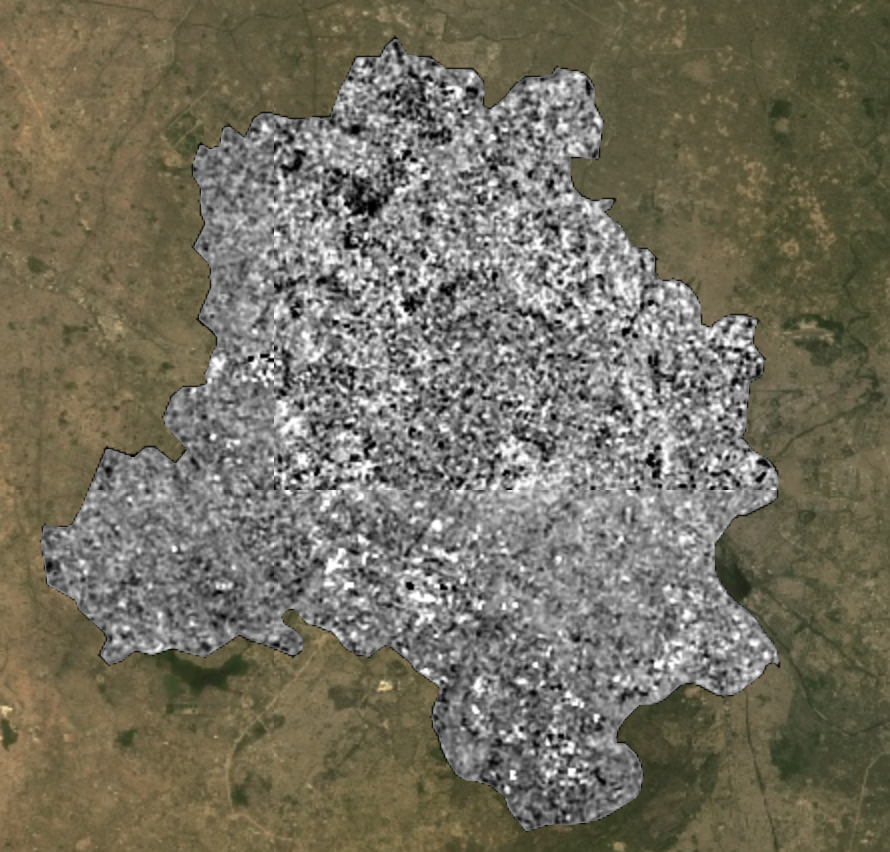
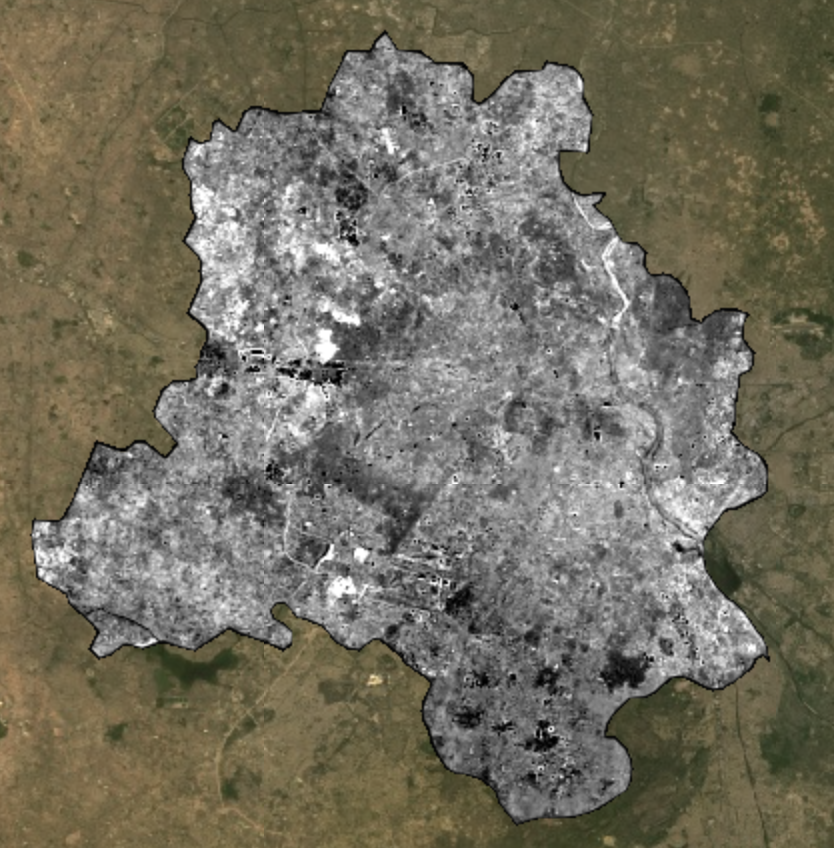
add week6

diff --git a/docs/Week_6.html b/docs/Week_6.html
@@ -138,7 +138,7 @@ ul.task-list li input[type="checkbox"] {
         <li class="sidebar-item">
   <div class="sidebar-item-container"> 
   <a href="./Week_7.html" class="sidebar-item-text sidebar-link">
- <span class="menu-text"><span class="chapter-number">6</span>&nbsp; <span class="chapter-title">Week_7 Classification</span></span></a>
+ <span class="menu-text"><span class="chapter-number">6</span>&nbsp; <span class="chapter-title">Week_7 Classification 1</span></span></a>
   </div>
 </li>
         <li class="sidebar-item">
@@ -175,8 +175,14 @@ ul.task-list li input[type="checkbox"] {
     <h2 id="toc-title">Table of contents</h2>
    
   <ul>
-  <li><a href="#notebook" id="toc-notebook" class="nav-link active" data-scroll-target="#notebook"><span class="header-section-number">5.1</span> Notebook</a></li>
-  <li><a href="#further-study" id="toc-further-study" class="nav-link" data-scroll-target="#further-study"><span class="header-section-number">5.2</span> Further Study</a></li>
+  <li><a href="#notebook" id="toc-notebook" class="nav-link active" data-scroll-target="#notebook"><span class="header-section-number">5.1</span> Notebook</a>
+  <ul class="collapse">
+  <li><a href="#pca" id="toc-pca" class="nav-link" data-scroll-target="#pca"><span class="header-section-number">5.1.1</span> PCA</a></li>
+  </ul></li>
+  <li><a href="#pracrical" id="toc-pracrical" class="nav-link" data-scroll-target="#pracrical"><span class="header-section-number">5.2</span> Pracrical</a></li>
+  <li><a href="#application" id="toc-application" class="nav-link" data-scroll-target="#application"><span class="header-section-number">5.3</span> Application</a></li>
+  <li><a href="#reflection" id="toc-reflection" class="nav-link" data-scroll-target="#reflection"><span class="header-section-number">5.4</span> Reflection</a></li>
+  <li><a href="#reference" id="toc-reference" class="nav-link" data-scroll-target="#reference"><span class="header-section-number">5.5</span> Reference</a></li>
   </ul>
 </nav>
     </div>
@@ -202,18 +208,87 @@ ul.task-list li input[type="checkbox"] {
 
 <section id="notebook" class="level2" data-number="5.1">
 <h2 data-number="5.1" class="anchored" data-anchor-id="notebook"><span class="header-section-number">5.1</span> Notebook</h2>
+<p>This week we begin to learn Google Earth Engine (GEE), a cutting-edge cloud-based platform for planetary-scale environmental data analysis. Comparing to SNAP and QGIS, GEE is really efficieny and helpful cause it doesn’t need download and process images, which is really annoying. ### Introduction Google Earth Engine (GEE) is a cutting-edge cloud-based platform for planetary-scale environmental data analysis. By offering an extensive archive of satellite imagery and geospatial datasets, coupled with powerful computing resources, GEE enables scientists, researchers, and developers to conduct analyses at unprecedented scales.</p>
+<p><strong>GEE Guidance</strong></p>
+<div class="quarto-video ratio ratio-16x9"><iframe data-external="1" src="https://www.youtube.com/embed/XHH5MBvnSkg" title="" frameborder="0" allow="accelerometer; autoplay; clipboard-write; encrypted-media; gyroscope; picture-in-picture" allowfullscreen=""></iframe></div>
+<section id="pca" class="level3" data-number="5.1.1">
+<h3 data-number="5.1.1" class="anchored" data-anchor-id="pca"><span class="header-section-number">5.1.1</span> PCA</h3>
 <p><strong>PCA is a statistical method used to reduce the dimensionality of the data while retaining the most variability.</strong></p>
 <ol type="1">
 <li><p>PCA in GEE: PCA is usually performed in GEE to reduce the dimensionality of remote sensing data and to highlight key information about land cover, change detection, or other environmental features.</p></li>
 <li><p>PCA in R: Compared with GEE, the data processing capability of R is limited by local computing resources. While R can handle big data, dealing with particularly large data sets may require optimizing code or using specific packages such as bigmemory or ff to manage memory usage.</p></li>
-<li><p>Although PCA in GEE and R are used for data reduction and feature extraction, GEE is more suitable for processing large-scale remote sensing image data and geospatial analysis, while R provides more flexible data processing and statistical analysis tools, which are suitable for various types of data.</p></li>
 </ol>
-<div style="display: flex; justify-content: space-around; align-items: center;">
-<p><img src="https://github.com/jianghan0v0/Learning-diary-han-jiang/raw/main/images/Picture%201.jpg" width="29%"> <img src="https://github.com/jianghan0v0/Learning-diary-han-jiang/raw/main/images/Picture%202.jpg" width="30%"> <img src="https://github.com/jianghan0v0/Learning-diary-han-jiang/raw/main/images/Picture%203.jpg" width="29%"></p>
+<p>Although PCA in GEE and R are used for data reduction and feature extraction, GEE is more suitable for processing large-scale remote sensing image data and geospatial analysis, while R provides more flexible data processing and statistical analysis tools, which are suitable for various types of data.</p>
+</section>
+</section>
+<section id="pracrical" class="level2" data-number="5.2">
+<h2 data-number="5.2" class="anchored" data-anchor-id="pracrical"><span class="header-section-number">5.2</span> Pracrical</h2>
+<p>In the practical part, our data is from New Delhi, the capital of India. The follows are the primitive landform.</p>
+<div class="cell" data-layout-align="center">
+<div class="cell-output-display">
+<div class="quarto-figure quarto-figure-center">
+<figure class="figure">
+<p><img src="https://github.com/jianghan0v0/Learning-diary-han-jiang/raw/main/images/wk5-3.png" class="img-fluid figure-img" style="width:50.0%"></p>
+</figure>
+</div>
+</div>
+</div>
+<p>And here is the GLCM texture measure from the same imagery – this looks to be highlighting high reflectance areas, especially the red line in the east arean.</p>
+<div class="cell" data-layout-align="center">
+<div class="cell-output-display">
+<div class="quarto-figure quarto-figure-center">
+<figure class="figure">
+<p><img src="https://github.com/jianghan0v0/Learning-diary-han-jiang/raw/main/images/wk5-2.png" class="img-fluid figure-img" style="width:50.0%"></p>
+</figure>
+</div>
+</div>
+</div>
+<p>Here we generate 21 pc and this is the final principal component from PCA:</p>
+<div class="cell" data-layout-align="center">
+<div class="cell-output-display">
+<div class="quarto-figure quarto-figure-center">
+<figure class="figure">
+<p><img src="https://github.com/jianghan0v0/Learning-diary-han-jiang/raw/main/images/wk5-1.png" class="img-fluid figure-img" style="width:50.0%"></p>
+</figure>
+</div>
+</div>
 </div>
 </section>
-<section id="further-study" class="level2" data-number="5.2">
-<h2 data-number="5.2" class="anchored" data-anchor-id="further-study"><span class="header-section-number">5.2</span> Further Study</h2>
+<section id="application" class="level2" data-number="5.3">
+<h2 data-number="5.3" class="anchored" data-anchor-id="application"><span class="header-section-number">5.3</span> Application</h2>
+<p>Forest Cover and Deforestation Analysis</p>
+<p>One practical application of GEE is monitoring forest cover changes and detecting deforestation activities over time. By utilizing Landsat imagery available on GEE, researchers can analyze forest cover changes at global, regional, and local scales. This allows for the identification of deforestation hotspots, facilitating targeted conservation efforts.</p>
+<p>In this area, I find a report from the Conflict and Environment Observatory assesses forest loss in conflict areas using Google Earth Engine. It reviews forest change hotspots during the pandemic, combining global forest loss maps, deforestation alerts, and high-resolution imagery.</p>
+<p>Key findings indicate an increase in forest loss in 2020 across conflict regions, with factors including weak governance and possibly COVID-19 effects. The report highlights areas like Myanmar and DRC, suggesting increased deforestation rates and the urgent need for in-depth research to understand the conflict-deforestation link better. This showcases GEE’s use in monitoring deforestation trends crucial for environmental conservation and conflict analysis.</p>
+<div class="cell" data-layout-align="center">
+<div class="cell-output-display">
+<div class="quarto-figure quarto-figure-center">
+<figure class="figure">
+<p><img src="https://github.com/jianghan0v0/Learning-diary-han-jiang/raw/main/images/drc.jpg" class="img-fluid figure-img" style="width:100.0%"></p>
+<figcaption class="figure-caption">(Source: Shrestha S,2018)</figcaption>
+</figure>
+</div>
+</div>
+</div>
+<p>And the interface of this application is very clear and powerful.</p>
+<div class="cell" data-layout-align="center">
+<div class="cell-output-display">
+<div class="quarto-figure quarto-figure-center">
+<figure class="figure">
+<p><img src="https://github.com/jianghan0v0/Learning-diary-han-jiang/raw/main/images/drc_1.jpg" class="img-fluid figure-img" style="width:100.0%"></p>
+<figcaption class="figure-caption">(Source: Shrestha S,2018)</figcaption>
+</figure>
+</div>
+</div>
+</div>
+</section>
+<section id="reflection" class="level2" data-number="5.4">
+<h2 data-number="5.4" class="anchored" data-anchor-id="reflection"><span class="header-section-number">5.4</span> Reflection</h2>
+<p>Reflecting on my experience with Google Earth Engine (GEE), I am truly impressed by its efficiency and user-friendliness. The convenience of not having to worry about setup or downloading resources has streamlined my work. However, I’ve noticed that having to run the entire script again for any change can be time-consuming and occasionally cause the system to hang. Despite this, the ability to build interfaces with JavaScript for GEE applications adds a layer of excitement to the learning process. There’s still much to learn, and I’m looking forward to diving deeper into GEE’s capabilities and discovering more of its applications in geospatial analysis. The journey ahead with GEE is indeed promising!</p>
+</section>
+<section id="reference" class="level2" data-number="5.5">
+<h2 data-number="5.5" class="anchored" data-anchor-id="reference"><span class="header-section-number">5.5</span> Reference</h2>
+<p>Shrestha S, Shrestha UB, Bawa K. 2018. Socio-economic factors and management regimes as drivers of tree cover change in Nepal. PeerJ 6:e4855 https://doi.org/10.7717/peerj.4855</p>
 
 
 </section>
@@ -460,7 +535,7 @@ window.document.addEventListener("DOMContentLoaded", function (event) {
   </div>
   <div class="nav-page nav-page-next">
       <a href="./Week_7.html" class="pagination-link">
-        <span class="nav-page-text"><span class="chapter-number">6</span>&nbsp; <span class="chapter-title">Week_7 Classification</span></span> <i class="bi bi-arrow-right-short"></i>
+        <span class="nav-page-text"><span class="chapter-number">6</span>&nbsp; <span class="chapter-title">Week_7 Classification 1</span></span> <i class="bi bi-arrow-right-short"></i>
       </a>
   </div>
 </nav>

diff --git a/docs/Week_8.html b/docs/Week_8.html
@@ -138,7 +138,7 @@ ul.task-list li input[type="checkbox"] {
         <li class="sidebar-item">
   <div class="sidebar-item-container"> 
   <a href="./Week_7.html" class="sidebar-item-text sidebar-link">
- <span class="menu-text"><span class="chapter-number">6</span>&nbsp; <span class="chapter-title">Week_7 Classification</span></span></a>
+ <span class="menu-text"><span class="chapter-number">6</span>&nbsp; <span class="chapter-title">Week_7 Classification 1</span></span></a>
   </div>
 </li>
         <li class="sidebar-item">
@@ -451,7 +451,7 @@ window.document.addEventListener("DOMContentLoaded", function (event) {
 <nav class="page-navigation">
   <div class="nav-page nav-page-previous">
       <a href="./Week_7.html" class="pagination-link">
-        <i class="bi bi-arrow-left-short"></i> <span class="nav-page-text"><span class="chapter-number">6</span>&nbsp; <span class="chapter-title">Week_7 Classification</span></span>
+        <i class="bi bi-arrow-left-short"></i> <span class="nav-page-text"><span class="chapter-number">6</span>&nbsp; <span class="chapter-title">Week_7 Classification 1</span></span>
       </a>          
   </div>
   <div class="nav-page nav-page-next">

diff --git a/docs/Week_1.html b/docs/Week_1.html
@@ -138,7 +138,7 @@ ul.task-list li input[type="checkbox"] {
         <li class="sidebar-item">
   <div class="sidebar-item-container"> 
   <a href="./Week_7.html" class="sidebar-item-text sidebar-link">
- <span class="menu-text"><span class="chapter-number">6</span>&nbsp; <span class="chapter-title">Week_7 Classification</span></span></a>
+ <span class="menu-text"><span class="chapter-number">6</span>&nbsp; <span class="chapter-title">Week_7 Classification 1</span></span></a>
   </div>
 </li>
         <li class="sidebar-item">
